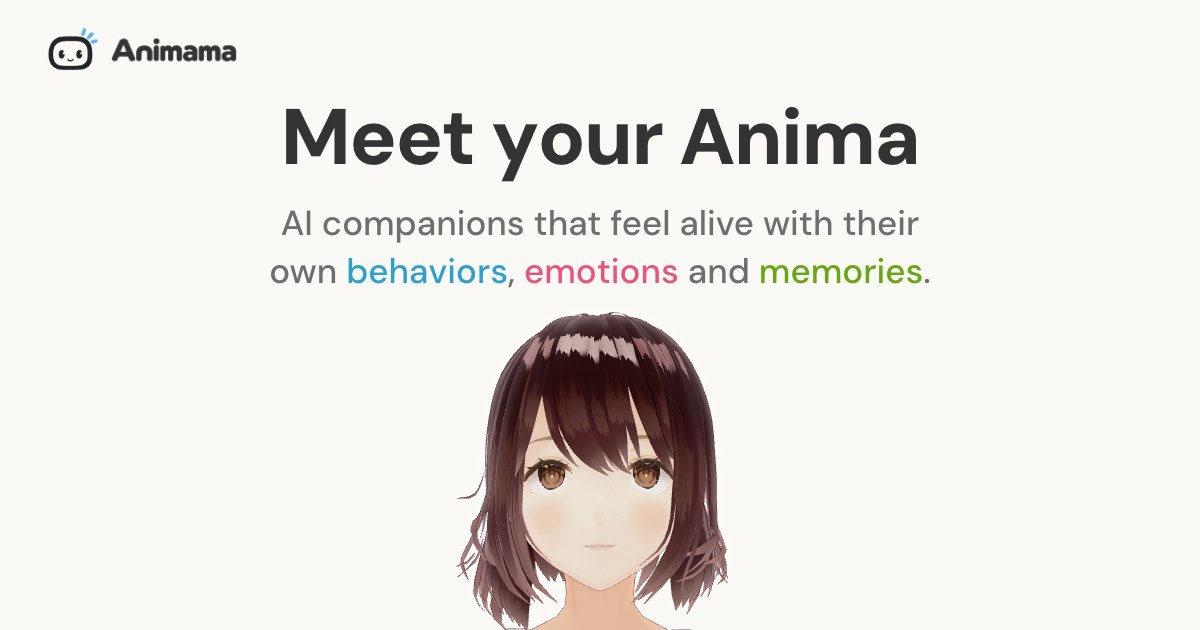
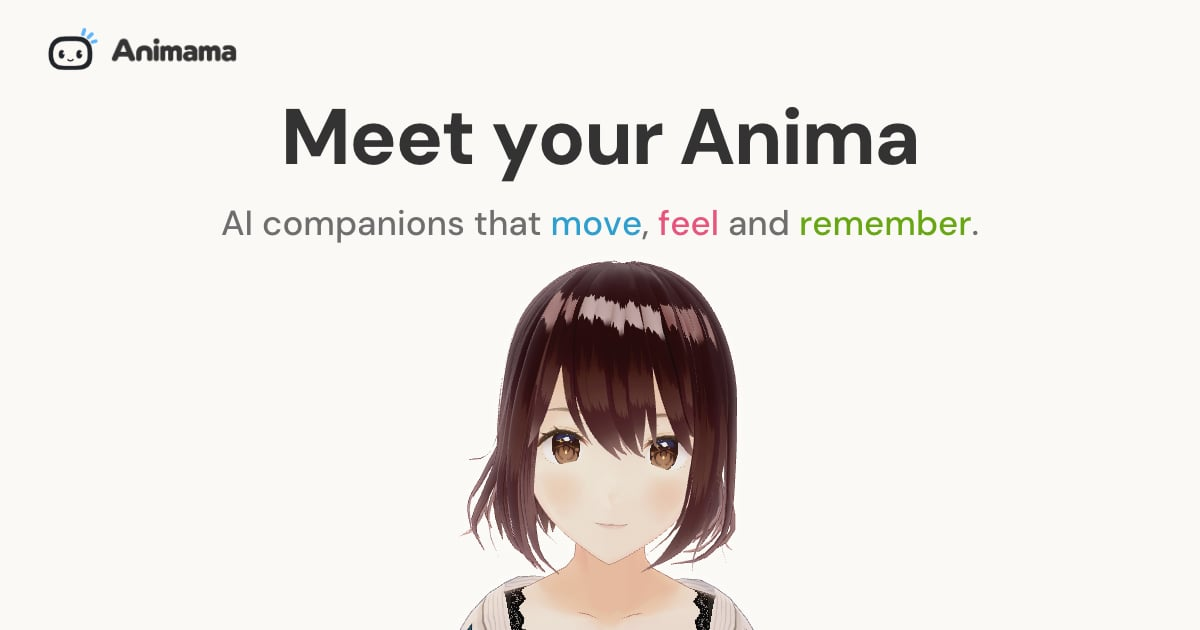
feat(landing): sharpen the hero and Body Language lines

Changed region(s): [[0.185, 0.3317, 0.8017, 1.0]]

diff --git a/src/frontend/web/scripts/landing-stage/stops.ts b/src/frontend/web/scripts/landing-stage/stops.ts
@@ -613,11 +613,11 @@ export const STAGE_STOPS: StageStop[] = withBetaCopy([
     label: "Intro",
     followCursor: true,
     title: "Meet your Anima",
-    body: "AI companions that feel alive with their own behaviors, emotions and memories.",
+    body: "AI companions that move, feel and remember.",
     links: [
-      { word: "behaviors", stop: "gestures" },
-      { word: "emotions", stop: "emotion" },
-      { word: "memories", stop: "memory" },
+      { word: "move", stop: "gestures" },
+      { word: "feel", stop: "emotion" },
+      { word: "remember", stop: "memory" },
     ],
     camera: {
       yaw: 0,
@@ -644,7 +644,7 @@ export const STAGE_STOPS: StageStop[] = withBetaCopy([
     accent: "#2f9fd0",
     label: "Behaviors",
     title: "Body Language",
-    body: "From laughing at your jokes to romantic gestures: **over 300 unique gestures and reactions**, picked as {subject} talks.",
+    body: "From goofy antics to romantic gestures: **over 300 unique gestures and reactions**, picked as {subject} talks.",
     camera: {
       yaw: 16,
       distance: 1.25,
